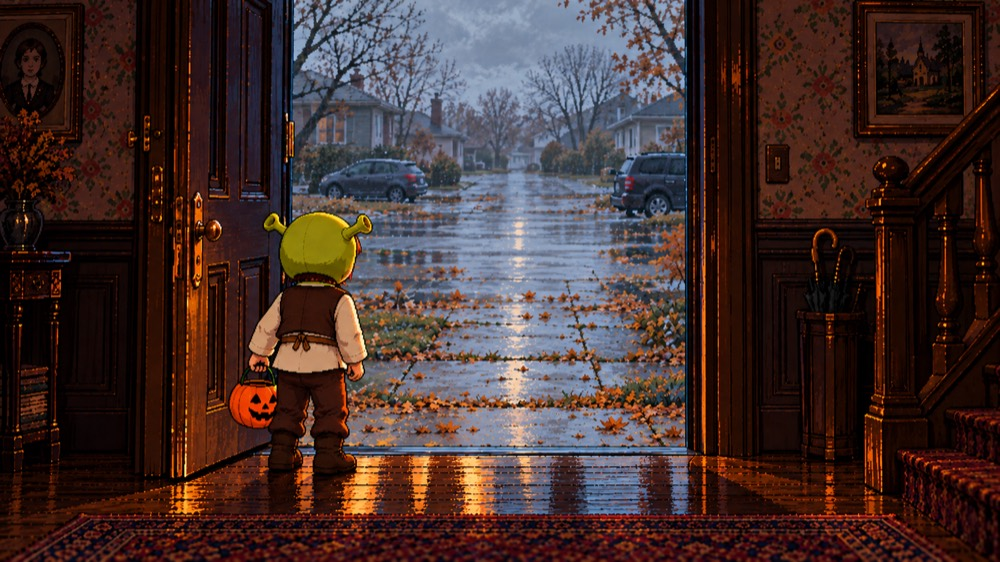
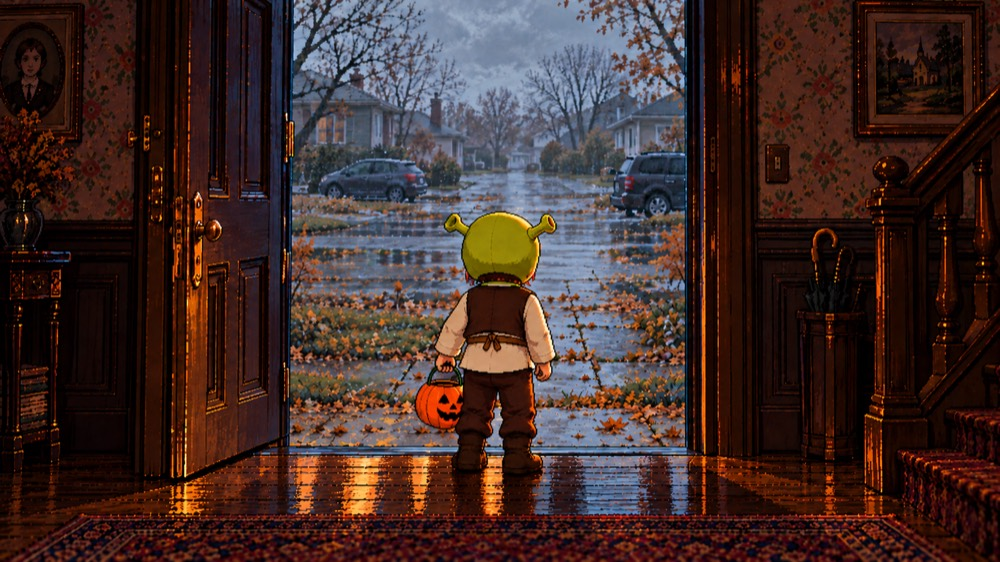
Center lone child in no-rescue doorway cutscene

diff --git a/assets/cutscenes/ending_rewind/variants/none/03_wrong_morning.prompt.md b/assets/cutscenes/ending_rewind/variants/none/03_wrong_morning.prompt.md
@@ -1,0 +1,5 @@
+# Centered doorway revision
+
+Generated with built-in `image_gen`, opaque background. Edit target: the prior `03_wrong_morning.png` from commit `99b7cccec2b279852c5e49c2365343ec32f59435`.
+
+Use case: precise-object-edit. Edit the provided pixel-art game cutscene. Change ONLY the horizontal position of the lone child and his orange pumpkin candy bucket: move the entire child/bucket together from the left door jamb to the EXACT HORIZONTAL CENTER of the open doorway. The opening extends approximately x=480 to x=1150 in the 1672px-wide reference, so center the child's BODY at x=815, directly in the middle of the threshold, with equal doorway space on either side. Keep his feet on the same threshold floor line and his head at the same height. Same scale, same rear-facing pose looking outside, same lime-green Shrek hood with two ogre ears, cream tunic, brown vest, brown trousers and boots, bucket in left hand. Reconstruct the floor/street behind the old left-hand position naturally. Preserve EVERYTHING ELSE: exact camera framing, 1672x941 landscape canvas, crisp richly textured pixel-art style, open wooden door at left, doorway dimensions, staircase at right, floral wallpaper, portraits, warm amber interior, cool gray autumn morning outside, wet street and modern parked cars. Exactly one child, now centered within the doorway, no extra people, no captions or added objects. Do not move or resize the doorway or change the architecture.
